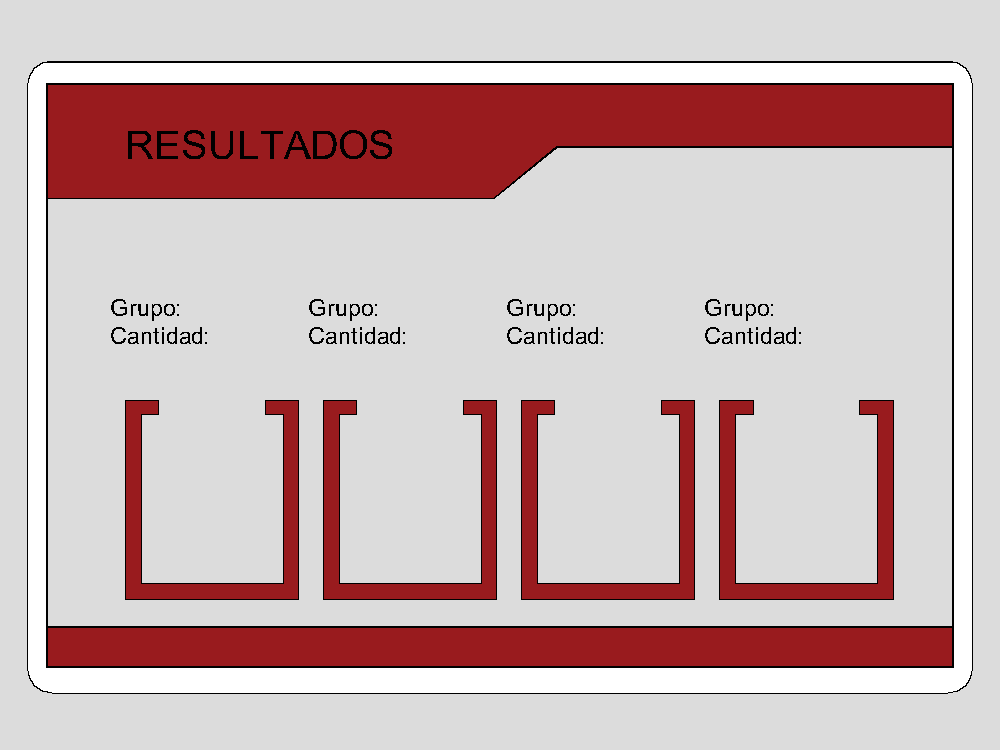
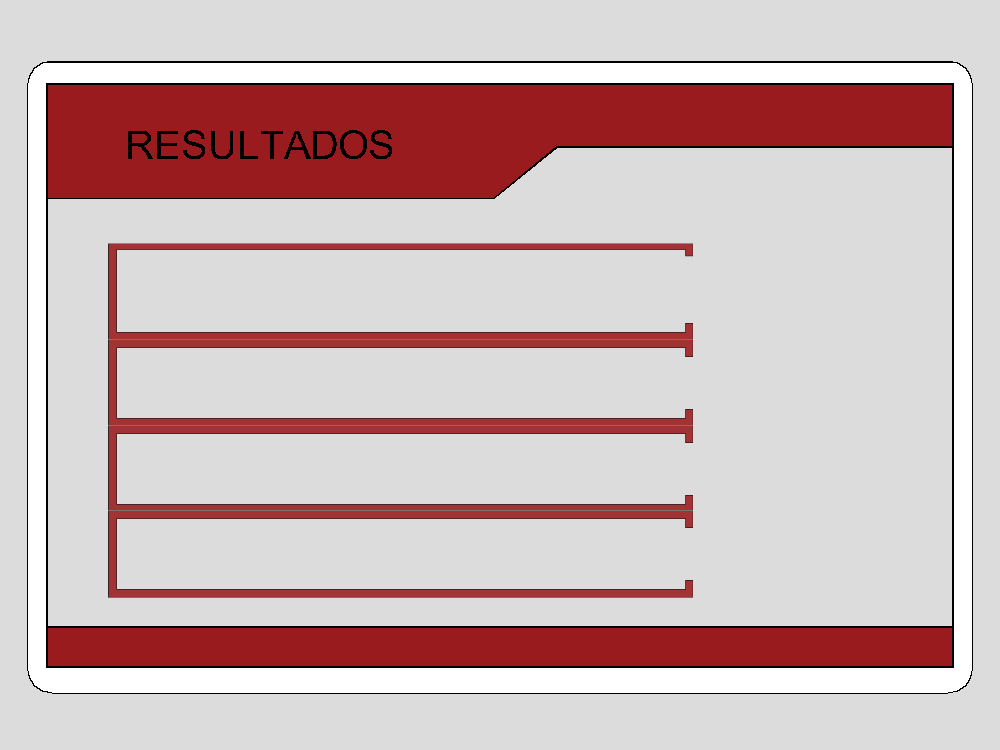
finished results screen

Changed region(s): [[0.093, 0.3067, 0.899, 0.7973]]

diff --git a/main.py b/main.py
@@ -187,29 +187,58 @@ while run:
         rec_reset = pygame.draw.rect(screen, green, pygame.Rect(839, 160, 80, 30))
         background = resultsBackground
         if tipoReparto == "Por color":
-
-            run_button2 = draw_text_with_rectangle(211, 323, grey, str(greyGroup), 30)
-            run_button3 = draw_text_with_rectangle(415, 323, grey, str(whiteGroup), 30)
-            run_button4 = draw_text_with_rectangle(613, 323, grey, str(greenGroup), 30)
-            run_button5 = draw_text_with_rectangle(811, 323, grey, str(redGroup), 30)
+            run_button2 = draw_text_with_rectangle(75, 285, grey, str(greyGroup), 30)
+            run_button3 = draw_text_with_rectangle(75, 370, grey, str(whiteGroup), 30)
+            run_button4 = draw_text_with_rectangle(75, 455, grey, str(greenGroup), 30)
+            run_button5 = draw_text_with_rectangle(75, 540, grey, str(redGroup), 30)
+            whiteDist = 0
+            greenDist = 0
+            redDist = 0
+            greyDist = 0
+            for i in range(0, numberOfParts):
+                if allparts[i].partColor == white:
+                    allparts[i].move(whiteDist)
+                    allparts[i].drawResults(275)
+                    whiteDist += 1
+                if allparts[i].partColor == green:
+                    allparts[i].move(greenDist)
+                    allparts[i].drawResults(360)
+                    greenDist += 1
+                if allparts[i].partColor == red:
+                    allparts[i].move(redDist)
+                    allparts[i].drawResults(445)
+                    redDist += 1
+                if allparts[i].partColor == grey:
+                    allparts[i].move(greyDist)
+                    allparts[i].drawResults(530)
+                    greyDist += 1
         if tipoReparto == "Por peso":
+            run_button2 = draw_text_with_rectangle(75, 285, grey, str(peso1Group), 30)
+            run_button3 = draw_text_with_rectangle(75, 370, grey, str(peso2Group), 30)
+            run_button4 = draw_text_with_rectangle(75, 455, grey, str(peso3Group), 30)
+            run_button5 = draw_text_with_rectangle(75, 540, grey, str(peso4Group), 30)
+            peso1Dist = 0
+            peso2Dist = 0
+            peso3Dist = 0
+            peso4Dist = 0
+            for i in range(0, numberOfParts):
+                if allparts[i].partPeso == 5:
+                    allparts[i].move(peso1Dist)
+                    allparts[i].drawResults(275)
+                    peso1Dist += 1
+                if allparts[i].partPeso == 10:
+                    allparts[i].move(peso2Dist)
+                    allparts[i].drawResults(360)
+                    peso2Dist += 1
+                if allparts[i].partPeso == 15:
+                    allparts[i].move(peso3Dist)
+                    allparts[i].drawResults(445)
+                    peso3Dist += 1
+                if allparts[i].partPeso == 20:
+                    allparts[i].move(peso4Dist)
+                    allparts[i].drawResults(530)
+                    peso4Dist += 1
 
-            run_button2 = draw_text_with_rectangle(211, 323, grey, str(peso1Group), 30)
-            run_button3 = draw_text_with_rectangle(415, 323, grey, str(peso2Group), 30)
-            run_button4 = draw_text_with_rectangle(613, 323, grey, str(peso3Group), 30)
-            run_button5 = draw_text_with_rectangle(811, 323, grey, str(peso4Group), 30)
-
-        '''
-        resultDist = 0
-        for i in range(0, numberOfParts):
-            if tipoReparto == "Por color":
-
-            if tipoReparto == "Por peso":
-
-            allparts[i].move(resultDist)
-            allparts[i].drawResults(498)
-            resultDist += 1
-        '''
 
         # check menu option changes and ENTER key presses
 
